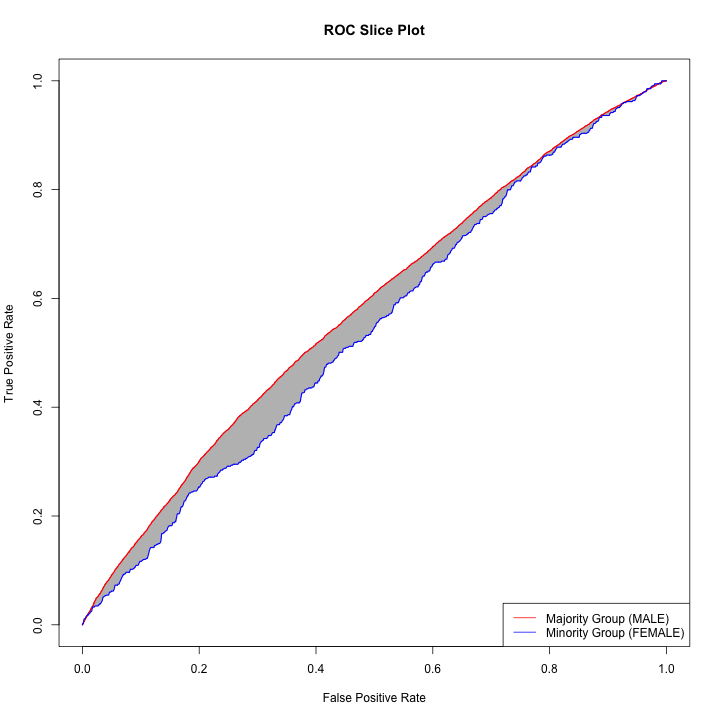
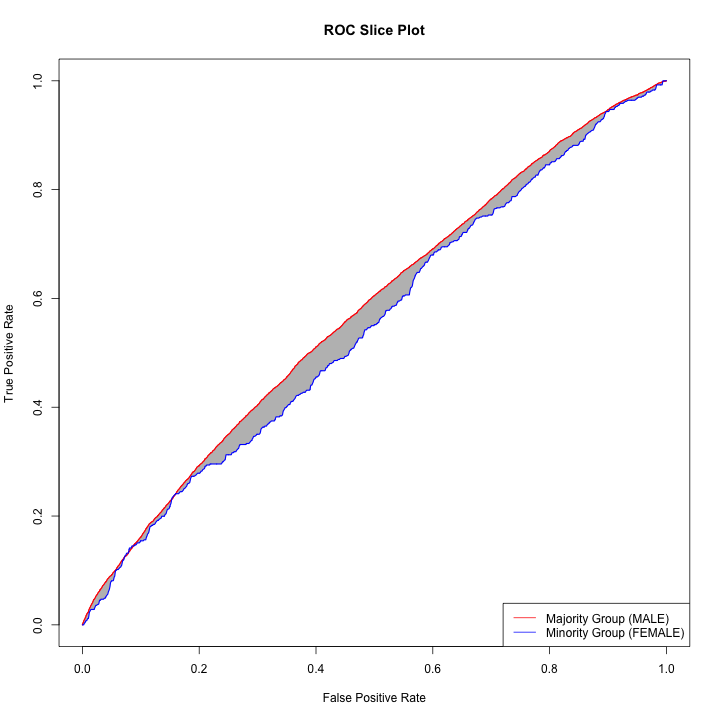
README updates; removed non-standard file at top level

Changed region(s): [[0.3972, 0.1528, 0.8556, 0.55], [0.1222, 0.5194, 0.4278, 0.8556], [0.8556, 0.1222, 0.9167, 0.1528]]

diff --git a/README.md b/README.md
@@ -1,9 +1,11 @@
+README
+================
 
 <!-- README.md is generated from README.Rmd. Please edit that file -->
 
 # abroca
 
-The goal of abroca is to provide basic functionality for computing and
+The goal of `abroca` is to provide basic functionality for computing and
 visualizing the Absolute Between-ROC Area (ABROCA). In future version of
 the package, we intend to make further statistical testing procedures
 for ABROCA available.
@@ -15,6 +17,14 @@ You can install the released version of abroca from
 
 ``` r
 install.packages("abroca")
+```
+
+If you would like to install the latest development version directly
+from GitHub, you can do so:
+
+``` r
+# install.packages("devtools")
+devtools::install_github("jpgard/abroca")
 ```
 
 ## Example
@@ -37,11 +47,11 @@ abroca <- compute_abroca(testdata, pred_col = "pred", label_col = "returned",
                protected_attr_col = "Gender", majority_protected_attr_val = "MALE", 
                plot_slices = TRUE, image_dir=".", identifier="recidivism")
 print(abroca)
-#> [1] 0.03061951
-knitr::include_graphics("vignettes/slice_plot_recidivism_MALE_FEMALE.png")
+#> [1] 0.02787494
+knitr::include_graphics("slice_plot_recidivism_MALE_FEMALE.png")
 ```
 
-<img src="vignettes/slice_plot_recidivism_MALE_FEMALE.png" width="100%" />
+<img src="slice_plot_recidivism_MALE_FEMALE.png" width="100%" />
 
 The plot is automatically saved to a file instead of being displayed
 on-screen.
@@ -53,6 +63,12 @@ Fairness of Predictive Student Models Through Slicing Analysis.
 Proceedings of the 9th International Conference on Learning Analytics
 and Knowledge (LAK19); March 4-8, 2019; Tempe, AZ, USA.
 <https://doi.org/10.1145/3303772.3303791>
+
+## Getting help
+
+If you encounter a clear bug, please file a minimal reproducible example
+on [github](https://github.com/jpgard/abroca/issues), or contact the
+package maintainers directly (see the package documentation).
 
 [![Travis build
 status](https://travis-ci.org/jpgard/abroca.svg?branch=master)](https://travis-ci.org/jpgard/abroca)
